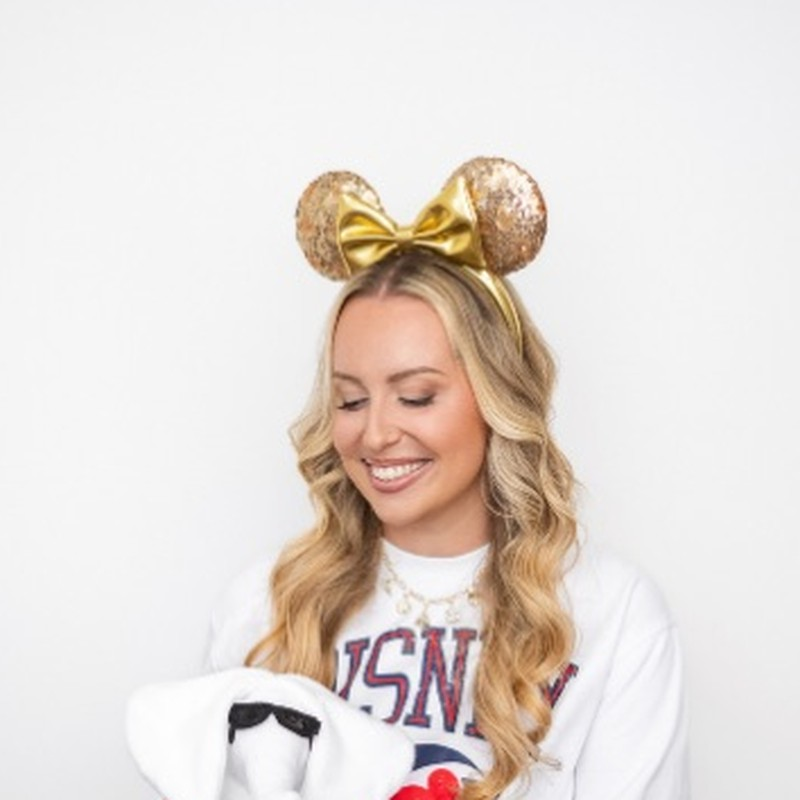
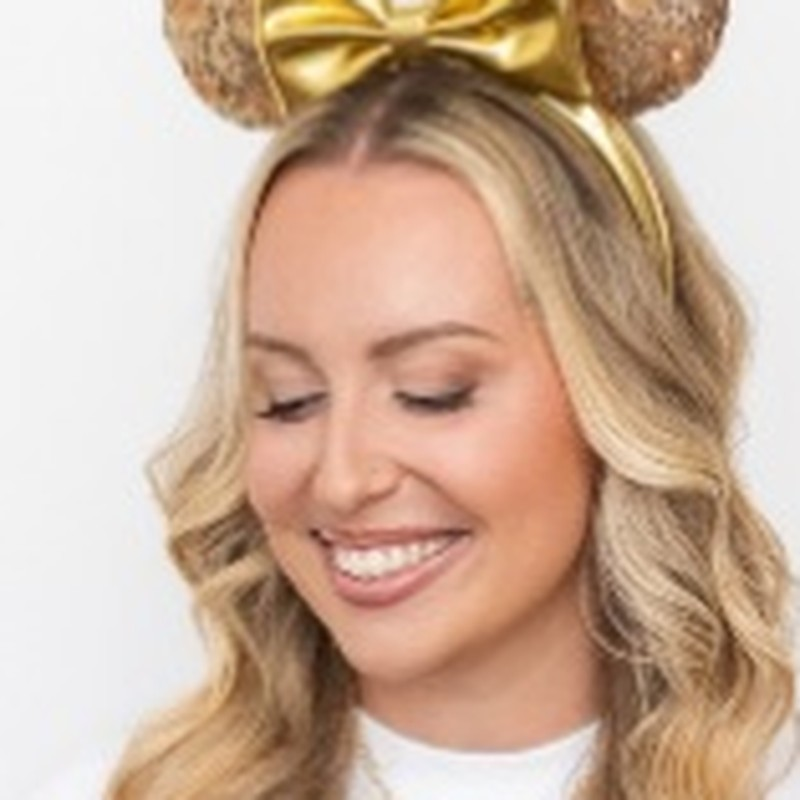
Tighten Emily and Martina headshots while keeping faces centered.
Match Kim’s close framing with eyes nearer the middle of the circle.

diff --git a/assets/agents-data.js b/assets/agents-data.js
@@ -98,8 +98,8 @@ window.CC_profilePath = function (agent) {
 
 /** Pre-cropped headshots for directory circles (full-body uploads stay in blob storage). */
 window.CC_AGENT_PHOTO_OVERRIDES = {
-  "emily-schultz": "/assets/agent-photos/emily-schultz.jpg?v=6",
-  "martina-yost": "/assets/agent-photos/martina-yost.jpg?v=5",
+  "emily-schultz": "/assets/agent-photos/emily-schultz.jpg?v=7",
+  "martina-yost": "/assets/agent-photos/martina-yost.jpg?v=6",
   "kim-fanning": "/assets/agent-photos/kim-fanning.jpg?v=2",
   "donna-walters": "/assets/agent-photos/donna-walters.jpg?v=4",
   "shana-matos": "/assets/agent-photos/shana-matos.jpg?v=2",

diff --git a/articles/welcome-aboard-emily.html b/articles/welcome-aboard-emily.html
@@ -122,7 +122,7 @@
       <p class="article-meta">Published August 7, 2026 · <a href="/agents/" style="color:var(--teal);">Travel agents</a></p>
 
       <div class="agent-feature-hero">
-        <div class="agent-feature-photo"><img src="/assets/agent-photos/emily-schultz.jpg?v=6" alt="Emily Schultz"></div>
+        <div class="agent-feature-photo"><img src="/assets/agent-photos/emily-schultz.jpg?v=7" alt="Emily Schultz"></div>
         <div>
           <h2>Emily Schultz</h2>
           <p class="meta">Magic Mom Travel · Waukesha, WI (remote)</p>

diff --git a/articles/welcome-aboard-martina.html b/articles/welcome-aboard-martina.html
@@ -122,7 +122,7 @@
       <p class="article-meta">Published August 9, 2026 · <a href="/agents/" style="color:var(--teal);">Travel agents</a></p>
 
       <div class="agent-feature-hero">
-        <div class="agent-feature-photo"><img src="/assets/agent-photos/martina-yost.jpg?v=5" alt="Martina Yost"></div>
+        <div class="agent-feature-photo"><img src="/assets/agent-photos/martina-yost.jpg?v=6" alt="Martina Yost"></div>
         <div>
           <h2>Martina Yost</h2>
           <p class="meta">Magic Mom Travel LLC · Aubrey, TX</p>
